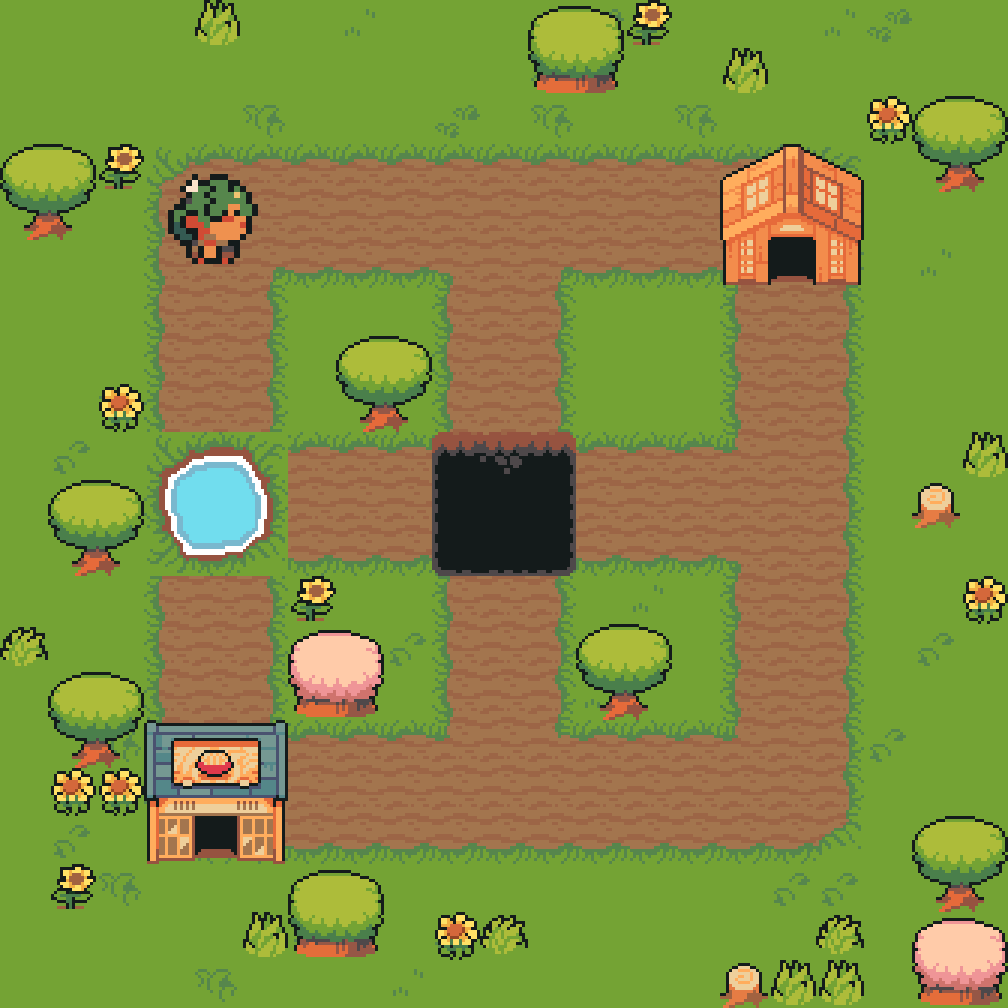
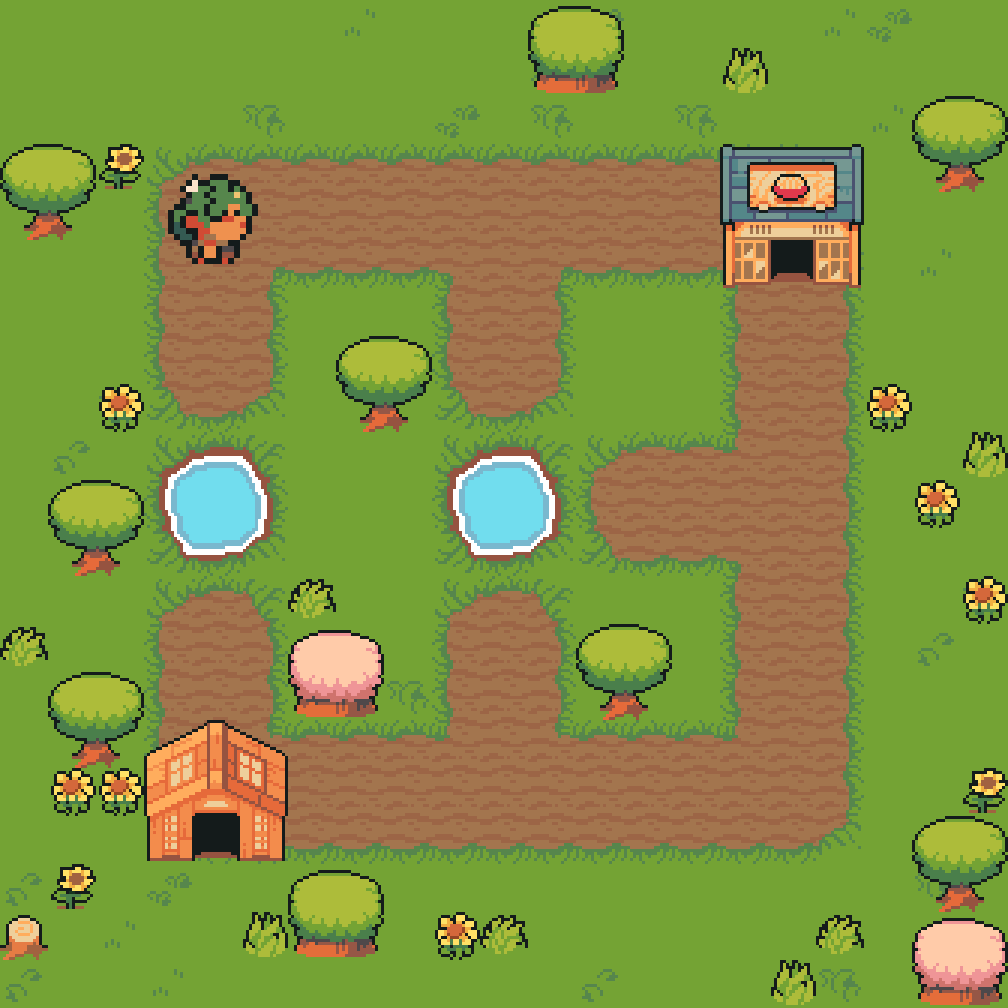
Thealivery : les chemins s'arrêtent avant les obstacles
- Une intersection avec un trou ou une mare reste en herbe : les rues
  finissent avant elle par un bout de chemin arrondi. Une rue entre deux
  obstacles disparaît, elle ne mène nulle part.
- Tirages au hasard séparés pour les objets et pour le décor.
- Images des six niveaux régénérées.

diff --git a/conception/jeu/niveaux/generer.py b/conception/jeu/niveaux/generer.py
@@ -63,19 +63,33 @@ def parse(text):
     return rows
 
 def render(level_id, grid_text, min_cells_w=0):
+    # Deux tirages séparés : changer le décor ne déplace pas les objets
     rnd = random.Random(level_id + grid_text)
+    rnd_objects = random.Random(level_id + grid_text + ":objets")
     rows = parse(grid_text)
     R, C = len(rows), len(rows[0])
     cells_w, cells_h = max((2 * C - 1) + 2 * MARGIN, min_cells_w), (2 * R - 1) + 2 * MARGIN
     W, H = cells_w * CELL, cells_h * CELL          # en tuiles
     img = Image.new("RGBA", (W * T, H * T))
 
-    # Masque de terre, en tuiles : intersections et rues
+    # Les obstacles sont tirés d'abord : leur case n'a pas de terre
+    obstacles = {(r, c): rnd_objects.choice([POND, PIT]) for r, row in enumerate(rows) for c, tok in enumerate(row) if tok == "~"}
+    houses = {(r, c): rnd_objects.choice(HOUSES) for r, row in enumerate(rows) for c, tok in enumerate(row) if tok == "M"}
+
+    # Masque de terre, en tuiles : intersections et rues. Une intersection qui
+    # porte un obstacle reste en herbe : les rues qui y mènent finissent avant
+    # lui, par un bout de chemin arrondi.
     dirt = [[0] * W for _ in range(H)]
     for gr in range(2 * R - 1):
         for gc in range(2 * C - 1):
             if gr % 2 == 1 and gc % 2 == 1:
                 continue   # pâté d'herbe entre les rues
+            if gr % 2 == 0 and gc % 2 == 0 and (gr // 2, gc // 2) in obstacles:
+                continue   # obstacle : de l'herbe, pas de terre
+            if gr % 2 != gc % 2:   # une rue : ses deux extrémités
+                ends = [(gr // 2, (gc - 1) // 2), (gr // 2, (gc + 1) // 2)] if gr % 2 == 0 else [((gr - 1) // 2, gc // 2), ((gr + 1) // 2, gc // 2)]
+                if all(e in obstacles for e in ends):
+                    continue   # rue entre deux obstacles : elle ne mène nulle part
             for ty in range(CELL):
                 for tx in range(CELL):
                     dirt[(gr + MARGIN) * CELL + ty][(gc + MARGIN) * CELL + tx] = 1
@@ -105,7 +119,11 @@ def render(level_id, grid_text, min_cells_w=0):
     # Décor dans les pâtés et dans la marge, sans toucher la terre
     def free(x, y, w, h):
         return all(0 <= y + j < H and 0 <= x + i < W and not dirt[y + j][x + i] for j in range(h) for i in range(w))
+    # Les cases des obstacles sont réservées : pas de décor dessous
     taken = set()
+    for (r, c) in obstacles:
+        x0, y0 = (2 * c + MARGIN) * CELL, (2 * r + MARGIN) * CELL
+        taken |= {(x0 + i, y0 + j) for i in range(CELL) for j in range(CELL)}
     for _ in range(W * H // 6):
         d = rnd.choice(DECOR)
         w, h = d.width // T, d.height // T
@@ -120,9 +138,9 @@ def render(level_id, grid_text, min_cells_w=0):
         for c, tok in enumerate(row):
             px, py = cell_px(2 * r, 2 * c)
             if tok == "M":
-                img.alpha_composite(rnd.choice(HOUSES), (px, py))
+                img.alpha_composite(houses[(r, c)], (px, py))
             elif tok == "~":
-                img.alpha_composite(rnd.choice([POND, PIT]), (px, py))
+                img.alpha_composite(obstacles[(r, c)], (px, py))
             elif tok == "f":
                 img.alpha_composite(LEAF, (px + T, py + T))
             elif tok.startswith("T"):

diff --git a/conception/jeu/04-conception-du-jeu.md b/conception/jeu/04-conception-du-jeu.md
@@ -455,6 +455,15 @@ tuiles de large, toute leur case ; les pâtés d'herbe entre elles reçoivent le
 décor. Les choix au hasard dépendent du nom du niveau : une image se régénère à
 l'identique.
 
+Règles de dessin :
+
+- **une intersection qui porte un obstacle reste en herbe** : les rues qui y
+  mènent finissent avant lui, par un bout de chemin arrondi, et le trou ou la
+  mare est posé sur l'herbe. Une rue entre deux obstacles ne mène nulle part :
+  elle disparaît ;
+- **deux tirages au hasard séparés**, un pour les objets (maisons, obstacles),
+  un pour le décor : modifier le décor ne change plus les obstacles.
+
 Deux ajustements techniques :
 
 - **la mare** n'existe dans le pack que sur herbe claire : sa bordure reçoit la
